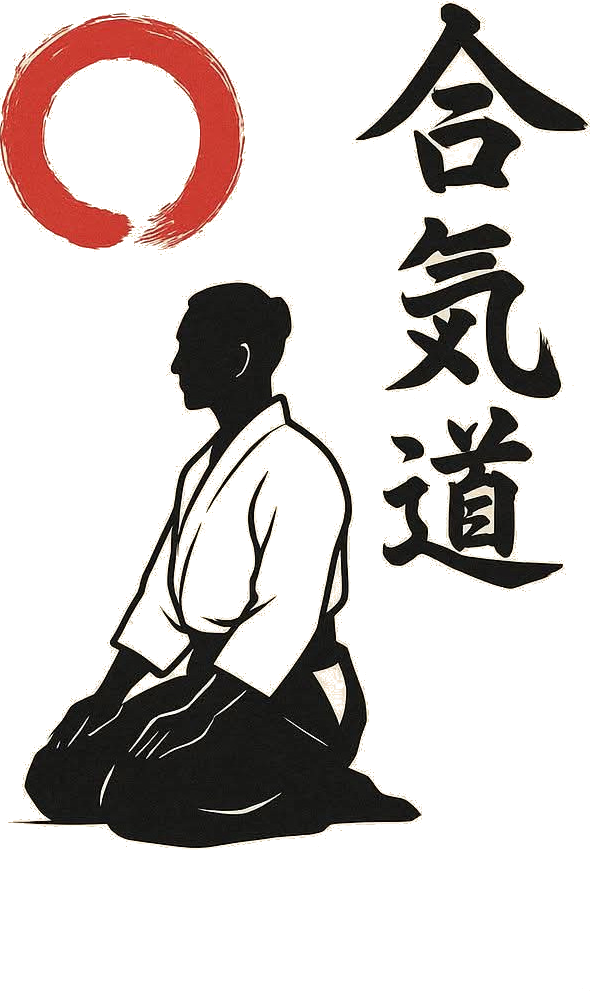
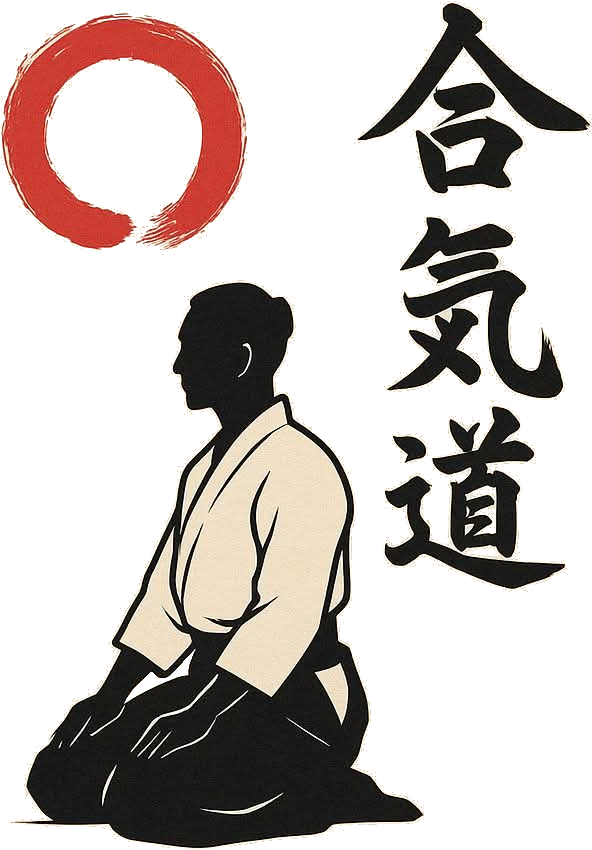
add gallery

diff --git a/src/components/DojoGallery/dojo-gallery.js b/src/components/DojoGallery/dojo-gallery.js
@@ -1,0 +1,118 @@
+// per-instance dojo gallery initializer
+function initGallery(container) {
+  const slider = container.querySelector('.gallery-slider');
+  if (!slider) return;
+
+  const track = slider.querySelector('.slider-track');
+  const items = Array.from(slider.querySelectorAll('.slider-item'));
+  const btnPrev = slider.querySelector('.prev');
+  const btnNext = slider.querySelector('.next');
+
+  const lightbox = container.querySelector('.lightbox');
+  const lbImg = lightbox?.querySelector('.lightbox-img');
+  const lbClose = lightbox?.querySelector('.lightbox-close');
+  const lbPrev = lightbox?.querySelector('.lightbox-prev');
+  const lbNext = lightbox?.querySelector('.lightbox-next');
+
+  let current = 0;
+
+  function scrollToIndex(i) {
+    const item = items[i];
+    if (!item || !track) return;
+    const left = item.getBoundingClientRect().left - track.getBoundingClientRect().left + track.scrollLeft;
+    track.scrollTo({ left, behavior: 'smooth' });
+  }
+
+  btnPrev?.addEventListener('click', function () {
+    current = Math.max(0, current - 1);
+    scrollToIndex(current);
+  });
+  btnNext?.addEventListener('click', function () {
+    current = Math.min(items.length - 1, current + 1);
+    scrollToIndex(current);
+  });
+
+  // Attach click handlers directly to slider items to avoid delegation issues
+  items.forEach((item, idx) => {
+    item.addEventListener('click', function (e) {
+      current = idx;
+      const img = item.querySelector('img');
+      if (lightbox && lbImg && img) {
+        lbImg.src = img.src;
+        lbImg.alt = img.alt || '';
+        // make lightbox focusable and focus it so keyboard events work
+        lightbox.tabIndex = -1;
+        lightbox.removeAttribute('hidden');
+        try { lightbox.focus(); } catch (e) { /* ignore */ }
+      }
+      scrollToIndex(current);
+    });
+  });
+
+  lbClose?.addEventListener('click', function () { if (lightbox) lightbox.setAttribute('hidden', ''); });
+  lbPrev?.addEventListener('click', function () {
+    if (items.length === 0) return;
+    current = (current - 1 + items.length) % items.length;
+    const img = items[current].querySelector('img');
+    if (lbImg && img) lbImg.src = img.src;
+  });
+  lbNext?.addEventListener('click', function () {
+    if (items.length === 0) return;
+    current = (current + 1) % items.length;
+    const img = items[current].querySelector('img');
+    if (lbImg && img) lbImg.src = img.src;
+  });
+
+  // keyboard navigation while lightbox is open
+  window.addEventListener('keydown', function (e) {
+    if (!lightbox || lightbox.hasAttribute('hidden')) return;
+    if (e.key === 'Escape') lightbox.setAttribute('hidden', '');
+    if (e.key === 'ArrowLeft') lbPrev?.click();
+    if (e.key === 'ArrowRight') lbNext?.click();
+  });
+
+  // Utility: check if container is (partially) in the viewport
+  function isInViewport(el) {
+    const rect = el.getBoundingClientRect();
+    return rect.top < window.innerHeight && rect.bottom > 0;
+  }
+
+  // Global gallery navigation events (dispatched from external buttons)
+  function onGlobalPrev() {
+    if (!isInViewport(container)) return;
+    if (lightbox && !lightbox.hasAttribute('hidden')) {
+      lbPrev?.click();
+      return;
+    }
+    if (items.length === 0) return;
+    current = Math.max(0, current - 1);
+    scrollToIndex(current);
+  }
+
+  function onGlobalNext() {
+    if (!isInViewport(container)) return;
+    if (lightbox && !lightbox.hasAttribute('hidden')) {
+      lbNext?.click();
+      return;
+    }
+    if (items.length === 0) return;
+    current = Math.min(items.length - 1, current + 1);
+    scrollToIndex(current);
+  }
+
+  window.addEventListener('gallery-prev', onGlobalPrev);
+  window.addEventListener('gallery-next', onGlobalNext);
+
+}
+
+function runInit() {
+  document.querySelectorAll('[data-dojo-gallery]').forEach(initGallery);
+}
+
+if (document.readyState === 'loading') {
+  document.addEventListener('DOMContentLoaded', runInit);
+} else {
+  runInit();
+}
+
+export { initGallery };

diff --git a/README.md b/README.md
@@ -1,43 +1,82 @@
-# Astro Starter Kit: Minimal
+# AGOS Website (Astro)
 
-```sh
-npm create astro@latest -- --template minimal
+This repo contains the website for Aikido Gemeinschaft Oder-Spree built with Astro.
+
+## Quickstart
+
+Install and run locally:
+
+```bash
+npm install
+npm run dev
 ```
 
-> 🧑🚀 **Seasoned astronaut?** Delete this file. Have fun!
+Build for production:
 
-## 🚀 Project Structure
-
-Inside of your Astro project, you'll see the following folders and files:
-
-```text
-/
-├── public/
-├── src/
-│   └── pages/
-│       └── index.astro
-└── package.json
+```bash
+npm run build
+npm run preview
 ```
 
-Astro looks for `.astro` or `.md` files in the `src/pages/` directory. Each page is exposed as a route based on its file name.
+## Project structure (high level)
 
-There's nothing special about `src/components/`, but that's where we like to put any Astro/React/Vue/Svelte/Preact components.
+Important folders:
 
-Any static assets, like images, can be placed in the `public/` directory.
+```
+public/                 # static assets (images, icons, manifest)
+src/
+	components/           # reusable components
+		DojoGallery/        # DojoGallery component (Astro + JS + styles)
+	pages/                 # routes (e.g. src/pages/dojos/[dojo].astro)
+	layouts/               # layout components (Header, Footer, BaseLayout)
+	scss/                  # global styles and variables
+	scripts/               # shared client scripts
+content/                 # markdown/frontmatter content for dojos, trainer, etc.
+```
 
-## 🧞 Commands
+## DojoGallery component
 
-All commands are run from the root of the project, from a terminal:
+- Location: `src/components/DojoGallery/`
+- Files:
+	- `DojoGallery.astro` — Astro component, accepts props `images` (array of URLs) and `dojoName`.
+	- `dojo-gallery.js` — per-instance client script that initializes slider + lightbox for each `[data-dojo-gallery]` container.
+	- `DojoGallery.scss` (optional) or `styles.js` — component styles (this project currently uses the JS styles module).
 
-| Command                   | Action                                           |
-| :------------------------ | :----------------------------------------------- |
-| `npm install`             | Installs dependencies                            |
-| `npm run dev`             | Starts local dev server at `localhost:4321`      |
-| `npm run build`           | Build your production site to `./dist/`          |
-| `npm run preview`         | Preview your build locally, before deploying     |
-| `npm run astro ...`       | Run CLI commands like `astro add`, `astro check` |
-| `npm run astro -- --help` | Get help using the Astro CLI                     |
+Usage (example in `src/pages/dojos/[dojo].astro`):
 
-## 👀 Want to learn more?
+```astro
+import DojoGallery from '../../components/DojoGallery/DojoGallery.astro';
 
-Feel free to check [our documentation](https://docs.astro.build) or jump into our [Discord server](https://astro.build/chat).
+<DojoGallery images={dojoImages} dojoName={dojo.data.name} />
+```
+
+Notes:
+- Images for a dojo are read from `public/assets/dojos/<slug>/` and passed to the component server-side.
+- The client script is loaded once in `src/layouts/BaseLayout.astro` as an ESM module.
+
+## Development notes
+
+- Styling: the project uses SCSS for global styles (`src/scss/`). Component styles may be inlined or placed alongside components.
+- Scripts: client modules live under `src/components/...` for component-scoped behaviour and are imported from `BaseLayout`.
+- Content: Dojo pages are generated from `src/content/dojos/*.md` files (frontmatter provides metadata).
+
+## Commands
+
+| Command | Action |
+|---|---|
+| `npm install` | Install dependencies |
+| `npm run dev` | Start local dev server |
+| `npm run build` | Build production site |
+| `npm run preview` | Preview the build locally |
+
+## If something breaks
+
+- Run `npm run build` to see build-time errors.
+- Check the console in the browser for client-side errors (scripts/styles).
+- Ask me to run checks or tidy up component locations/styles.
+
+---
+If you want, I can also:
+- convert the component styles to `DojoGallery.scss` and import them, or
+- add a short `src/components/README.md` listing available components.
+